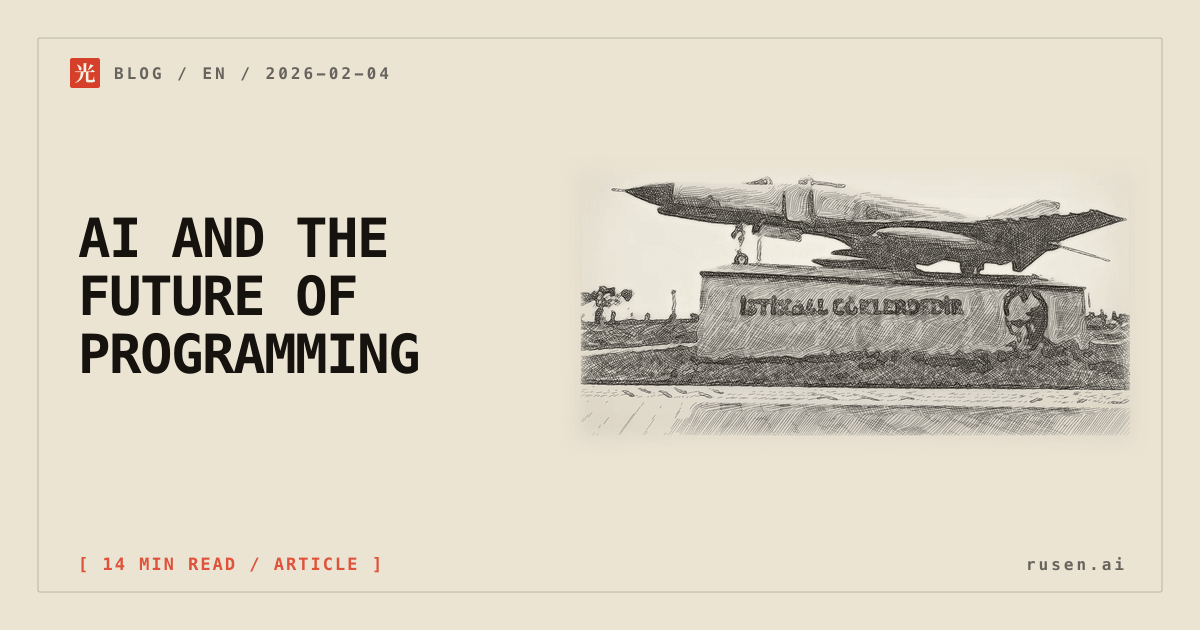
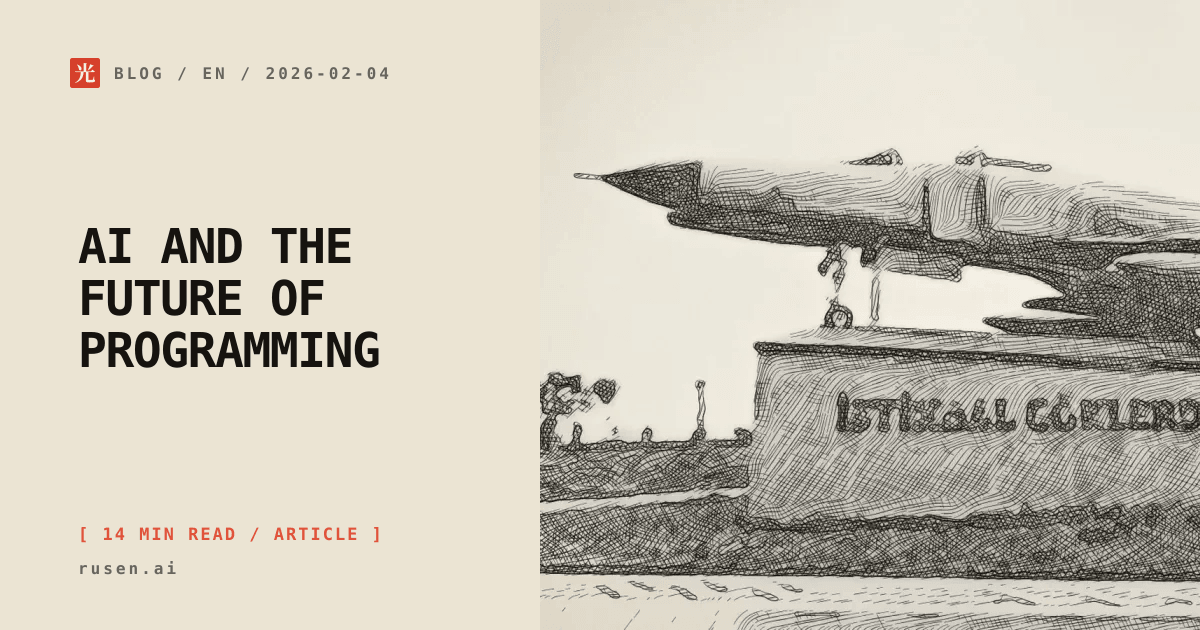
Let the blog covers fill their whole panel
The ink covers are now drawn edge to edge, with no paper margin and no
faded vignette: the photo is cut to the frame and the watercolor wash
covers all of it. On the link preview card the drawing fills the right
panel to the card's edges, next to the title on paper. A cover can set
cardFocus to choose which part of the drawing that panel keeps.

diff --git a/scripts/social-build.ts b/scripts/social-build.ts
@@ -14,7 +14,7 @@ import { dirname, extname, relative, resolve } from "node:path";
 
 import sharp from "sharp";
 
-import { coverImagePath, getAllPosts, getAllSeries, getAllTags, tagDisplay, tagSlug } from "../src/lib/blog.ts";
+import { coverImagePath, getCover, getAllPosts, getAllSeries, getAllTags, tagDisplay, tagSlug } from "../src/lib/blog.ts";
 import { getProjectPath, PROJECTS } from "../src/lib/projects.ts";
 import {
   HIKARI_PATH,
@@ -249,9 +249,13 @@ const PAPER = "#ebe4d3";
 const INK_TEXT = "#16130f";
 const INK_DIM = "#6f6556";
 
+/** Left edge of the cover drawing on a link preview card; the drawing runs from here to the right edge. */
+const COVER_PANEL_X = 540;
+
 function renderCoverOverlaySvg(spec: CardSpec): Buffer {
-  const lines = wrapText(spec.title.join(" "), 16, 4);
-  const size = lines.length >= 4 ? 44 : lines.some((line) => line.length > 14) ? 48 : 54;
+  // the title must stay on the paper, left of the drawing
+  const lines = wrapText(spec.title.join(" "), 14, 5);
+  const size = lines.length >= 4 ? 42 : 48;
   const lineHeight = Math.round(size * 1.08);
   const startY = 315 - ((lines.length - 1) * lineHeight) / 2;
   const title = lines
@@ -267,57 +271,27 @@ function renderCoverOverlaySvg(spec: CardSpec): Buffer {
           .register { fill: ${SEAL}; font-size: 17px; font-weight: 650; letter-spacing: 2px; }
         </style>
       </defs>
-      <rect x="38" y="38" width="1124" height="554" rx="2" fill="none" stroke="${INK_TEXT}" stroke-opacity="0.22"/>
       ${seal(70, 58, 30)}
       <text x="114" y="79" class="micro">${xml(spec.label.toUpperCase())}</text>
       ${title}
-      <text x="78" y="570" class="register">[ ${xml(spec.register.toUpperCase())} ]</text>
-      <text x="1124" y="570" class="micro" text-anchor="end">rusen.ai</text>
+      <text x="78" y="540" class="register">[ ${xml(spec.register.toUpperCase())} ]</text>
+      <text x="78" y="574" class="micro">rusen.ai</text>
     </svg>
   `);
 }
 
-/** The drawing cut to its ink (plus a margin), with edges feathered into the card's paper. */
-async function drawingLayer(file: string): Promise<{ buffer: Buffer; width: number; height: number }> {
-  const { data, info } = await sharp(file).removeAlpha().raw().toBuffer({ resolveWithObject: true });
-  const n = info.width * info.height;
-  const luma = new Uint8Array(n);
-  for (let i = 0; i < n; i += 1) luma[i] = Math.round(0.299 * data[i * 3] + 0.587 * data[i * 3 + 1] + 0.114 * data[i * 3 + 2]);
-  const paper = Uint8Array.from(luma).sort()[Math.floor(n * 0.6)];
-  let x0 = info.width, y0 = info.height, x1 = 0, y1 = 0;
-  for (let i = 0; i < n; i += 1) {
-    if (luma[i] < paper - 40) {
-      const x = i % info.width, y = Math.floor(i / info.width);
-      if (x < x0) x0 = x; if (x > x1) x1 = x; if (y < y0) y0 = y; if (y > y1) y1 = y;
-    }
-  }
-  const pad = 44;
-  x0 = Math.max(0, x0 - pad); y0 = Math.max(0, y0 - pad);
-  x1 = Math.min(info.width - 1, x1 + pad); y1 = Math.min(info.height - 1, y1 + pad);
-  const width = x1 - x0 + 1, height = y1 - y0 + 1;
-  const feather = Buffer.from(
-    `<svg xmlns="http://www.w3.org/2000/svg" width="${width}" height="${height}"><defs><filter id="f"><feGaussianBlur stdDeviation="${pad / 2.2}"/></filter></defs><rect x="${pad}" y="${pad}" width="${width - 2 * pad}" height="${height - 2 * pad}" fill="#fff" filter="url(#f)"/></svg>`,
-  );
-  const buffer = await sharp(file)
-    .extract({ left: x0, top: y0, width, height })
-    .ensureAlpha()
-    .composite([{ input: feather, blend: "dest-in" }])
-    .png()
-    .toBuffer();
-  return { buffer, width, height };
-}
-
 async function writeCoverCard(spec: CardSpec & { cover: string }, outputPath: string): Promise<void> {
   const drawing = resolve(ROOT, "public", coverImagePath(spec.cover).replace(/^\//, ""));
-  const layer = await drawingLayer(drawing);
-  // the drawing sits in the right part of the card, the title on clean paper at the left
-  const box = { x: 560, y: 70, w: 590, h: 470 };
-  const k = Math.min(box.w / layer.width, box.h / layer.height);
-  const w = Math.round(layer.width * k), h = Math.round(layer.height * k);
-  const placed = await sharp(layer.buffer).resize(w, h).toBuffer();
+  // the drawing fills the whole right panel, edge to edge; the title sits on clean paper at the left
+  const panel = { x: COVER_PANEL_X, w: WIDTH - COVER_PANEL_X, h: HEIGHT };
+  // the panel is narrower than the drawing: keep the part around the cover's card focus
+  const scaled = await sharp(drawing).resize({ height: panel.h }).toBuffer({ resolveWithObject: true });
+  const focus = getCover(spec.cover).cardFocus ?? 0.5;
+  const left = Math.max(0, Math.min(scaled.info.width - panel.w, Math.round(focus * scaled.info.width - panel.w / 2)));
+  const placed = await sharp(scaled.data).extract({ left, top: 0, width: panel.w, height: panel.h }).toBuffer();
   await sharp({ create: { width: WIDTH, height: HEIGHT, channels: 3, background: PAPER } })
     .composite([
-      { input: placed, left: box.x + Math.round((box.w - w) / 2), top: box.y + Math.round((box.h - h) / 2) },
+      { input: placed, left: panel.x, top: 0 },
       { input: renderCoverOverlaySvg(spec) },
     ])
     .png({ compressionLevel: 9, palette: true, quality: 90 })
@@ -373,7 +347,7 @@ async function writePhotoCard(page: StaticSocialPage): Promise<void> {
   `);
 
   await sharp(PHOTO_SOURCE)
-    .resize(WIDTH, HEIGHT, { fit: "cover", position: "centre" })
+    .resize(WIDTH, HEIGHT, { fit: "cover", position: sharp.strategy.attention })
     .composite([{ input: overlay }])
     .jpeg({ quality: 90, chromaSubsampling: "4:4:4", mozjpeg: true })
     .toFile(outputPath);
@@ -480,6 +454,7 @@ function inputFingerprint(): string {
     .update(readFileSync(PHOTO_SOURCE));
   for (const cover of [...new Set(specs.flatMap((spec) => (spec.cover ? [spec.cover] : [])))].sort()) {
     digest.update(readFileSync(resolve(ROOT, "public", coverImagePath(cover).replace(/^\//, ""))));
+    digest.update(JSON.stringify(getCover(cover)));
   }
   return digest.digest("hex");
 }

diff --git a/src/lib/blog.ts b/src/lib/blog.ts
@@ -9,7 +9,11 @@ const BLOG_DIR = path.join(CONTENT_ROOT, "blog");
 const SERIES_FILE = path.join(CONTENT_ROOT, "series.json");
 const COVERS_FILE = path.join(CONTENT_ROOT, "blog-covers.json");
 
-export type BlogCover = { alt: Record<Lang, string> };
+export type BlogCover = {
+  alt: Record<Lang, string>;
+  /** Horizontal point of the drawing (0..1) kept in view on the link preview card, which shows a narrower slice. Default 0.5. */
+  cardFocus?: number;
+};
 const BLOG_COVERS = JSON.parse(fs.readFileSync(COVERS_FILE, "utf8")) as Record<string, BlogCover>;
 
 /** Public path of a post's ink cover drawing. */

diff --git a/src/app/blogs/blog.css b/src/app/blogs/blog.css
@@ -143,7 +143,6 @@ html[data-blog-lang="tr"] [data-tag-lang="en"]:not([data-blog-force-lang] *) {
   border: 1px solid var(--line);
   border-radius: 2px;
   overflow: hidden;
-  background: #ebe4d3;
 }
 .post-cover img {
   display: block;
